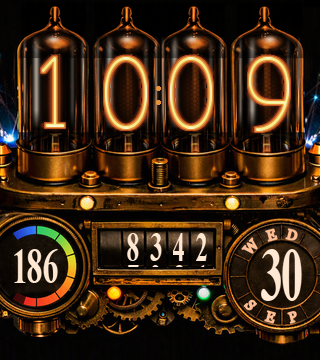
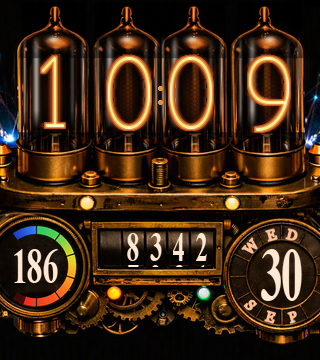
fix(ciq): tube 2's digit 3 px right, and the separator dots with it
The user, looking at the watch: "the dots between the tubes are slightly too far
to the left, and the 2nd '0' is also too far to the left".

Tube 2's digit moves 3 screen px right (TIME_X 126 -> 129). Two of the
artwork's own features agree with the eye here where the earlier automatic
measurements did not: the tube's internal electrode stem is centred at 128-129,
and its wall rims bracket 97..162 (centre 129.5).

The hours/minutes separator is DERIVED from the two time tubes' centres, so it
moves with them (SEP_X 158 -> 160) - the same 'slightly too far to the left' the
user reported for the dots - and stays on the hour|minute boundary by
construction rather than by a second hand nudge.

Screenshots and the store upload set regenerated.

Changed region(s): [[0.3125, 0.1528, 0.5, 0.3667]]

diff --git a/ciq/prepare_artwork.py b/ciq/prepare_artwork.py
@@ -49,8 +49,16 @@ OLD_SCALE = 0.3365  # the previous uniform fit; the fonts scale by ST/OLD_SCALE 
 # the source grid, so the nudge is 2 / ST = 4.3 source px and survives any later zoom. The separator
 # (SEP_Y) is derived from TIME_Y, so it lifts with them.
 _TUBE_Y_SRC = 255.6 - 2 / ST
+# Tube 2's digit sits 3 SCREEN px right of that measurement (user: "the 2nd '0' is also too far to
+# the left"). Two of the artwork's own features agree with the eye here where the earlier automatic
+# measurements did not: the tube's internal electrode stem is centred at screen x 128-129 and its wall
+# rims bracket 97..162 (centre 129.5), against the digit's old centre of 126. The hours/minutes
+# separator is DERIVED from these two tube centres (SEP_X in geometry()), so it moves right with them -
+# which is the same "slightly too far to the left" the user reported for the dots, and keeps the
+# separator on the hour|minute boundary by construction rather than by a second hand-nudge.
+_TUBE2_X_SRC = 439.8 + 3 / ST
 POINTS = {
-    "tube1": (282.3, _TUBE_Y_SRC, "top"), "tube2": (439.8, _TUBE_Y_SRC, "top"),
+    "tube1": (282.3, _TUBE_Y_SRC, "top"), "tube2": (_TUBE2_X_SRC, _TUBE_Y_SRC, "top"),
     "tube3": (579.5, _TUBE_Y_SRC, "top"), "tube4": (745.9, _TUBE_Y_SRC, "top"),
     "steps1": (445.8, 600.3, "bot"), "steps2": (505.2, 591.4, "bot"),
     "steps3": (561.7, 591.4, "bot"), "steps4": (618.1, 591.4, "bot"),
